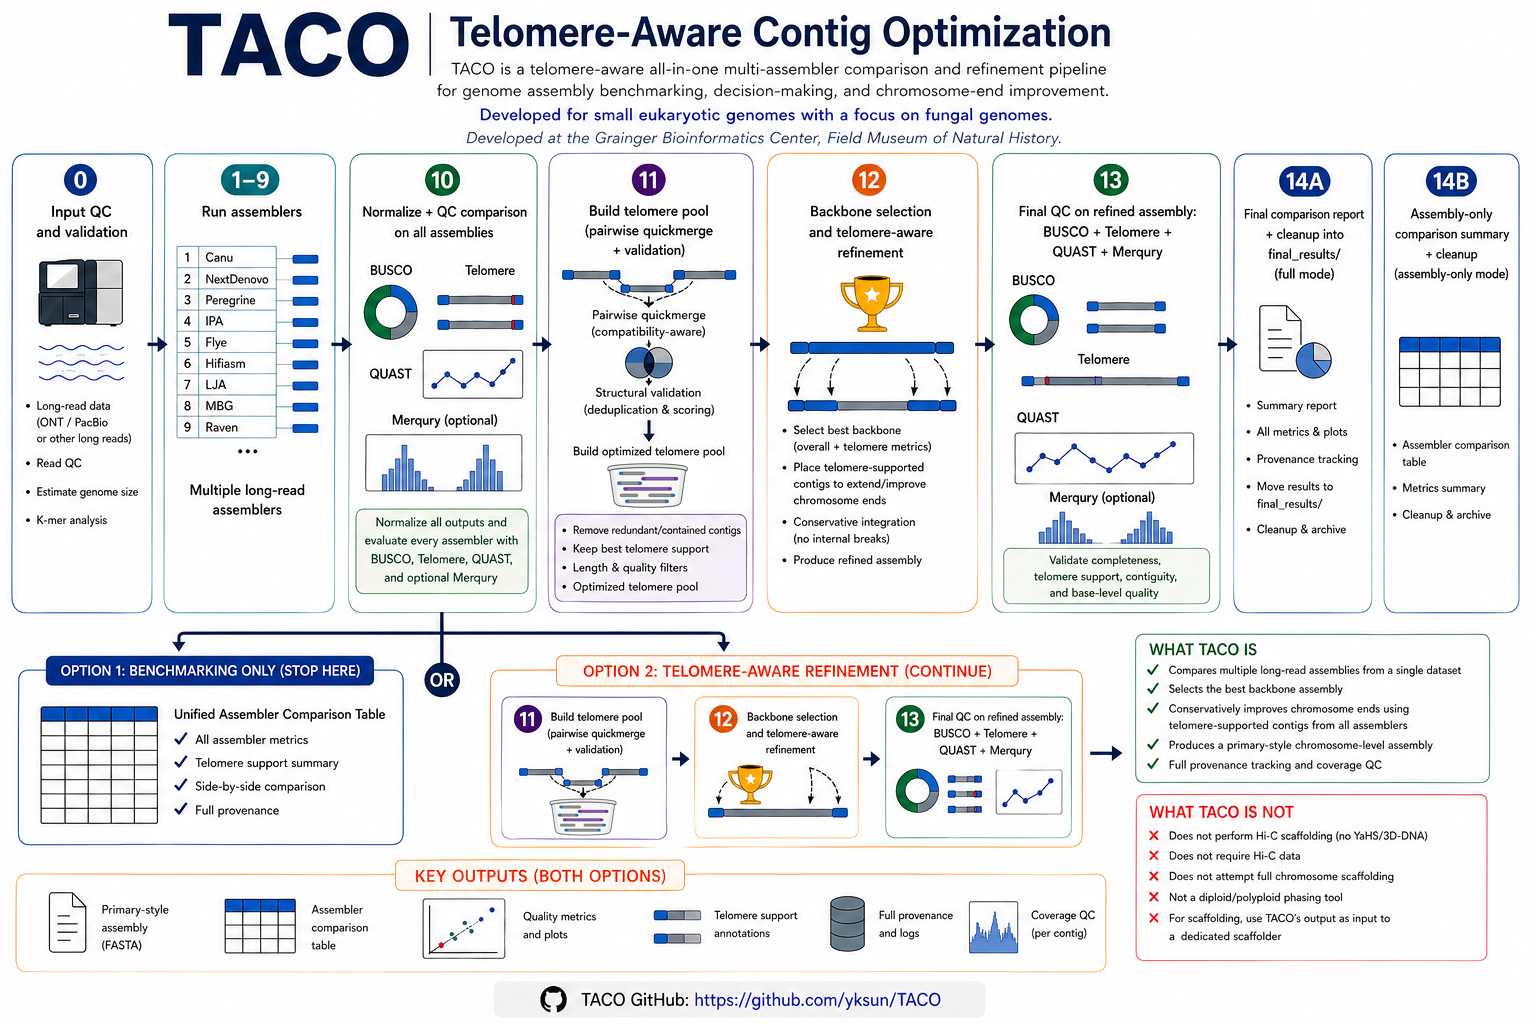
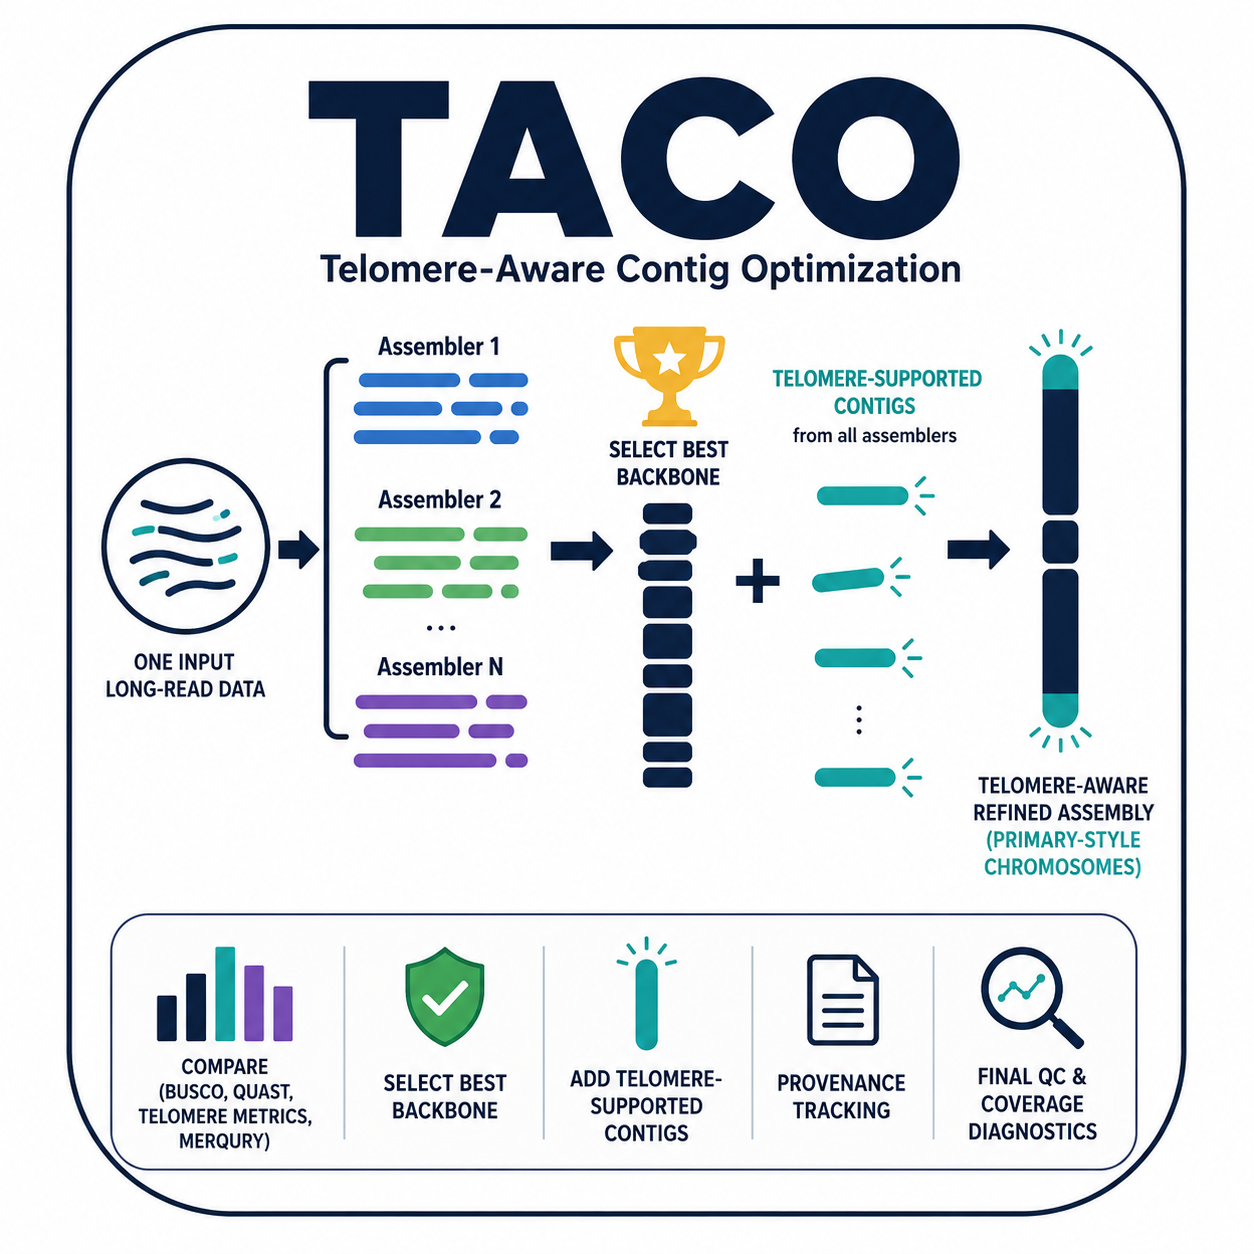
1.3.4

diff --git a/README.md b/README.md
@@ -268,6 +268,8 @@ TACO exposes 15 public steps by number: **0-14**. Step 14 has two internal repor
 | 14 / 14A | Final comparison report + cleanup into `final_results/` (full mode) | Report |
 | 14 / 14B | Assembly-only comparison summary + cleanup (only with `--assembly-only`) | Report |
 
+<img align="center" src="/docs/steps.png">
+
 ### Step 0 — Input QC
 
 Step 0 runs automatically before assembly. It validates that the FASTQ file exists and is non-empty, parses the genome size, estimates total read bases and coverage by sampling the first 100K reads, and warns if coverage is below recommended thresholds (HiFi: 25×, ONT: 40×, CLR: 50×). It also logs which assemblers are compatible with the selected platform and confirms the BUSCO lineage setting. Step 0 runs in both full and assembly-only modes.